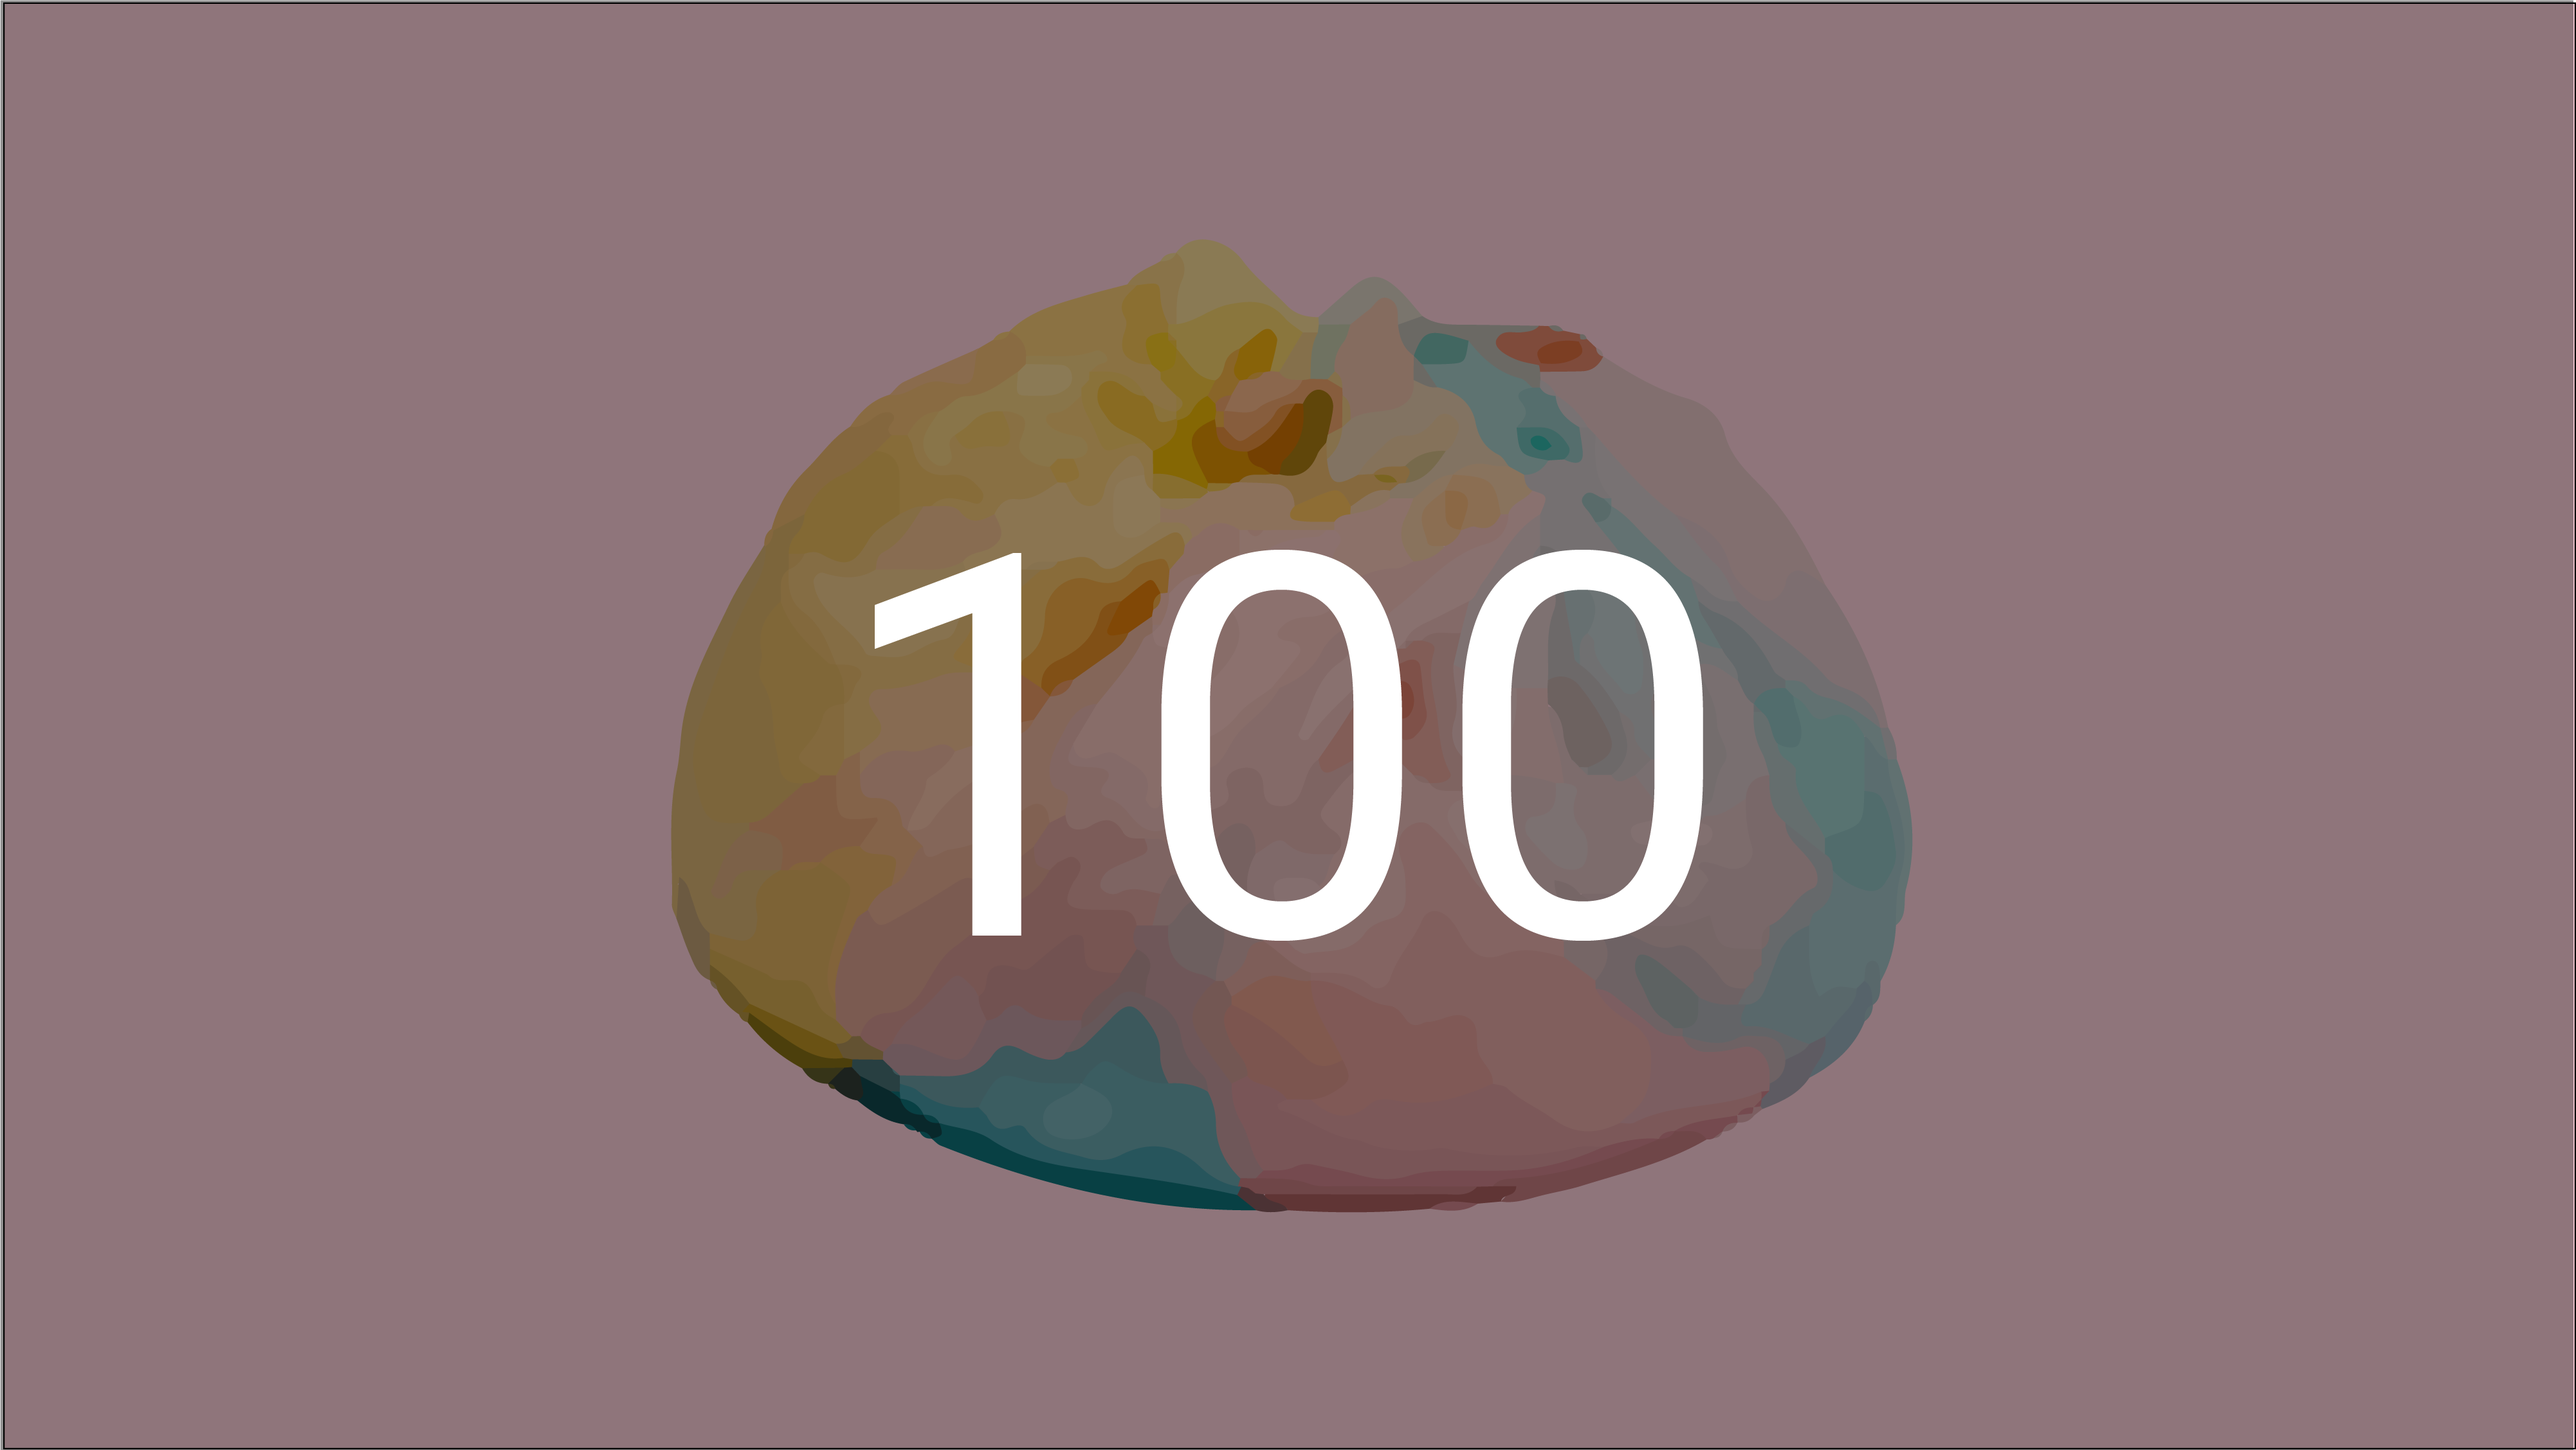
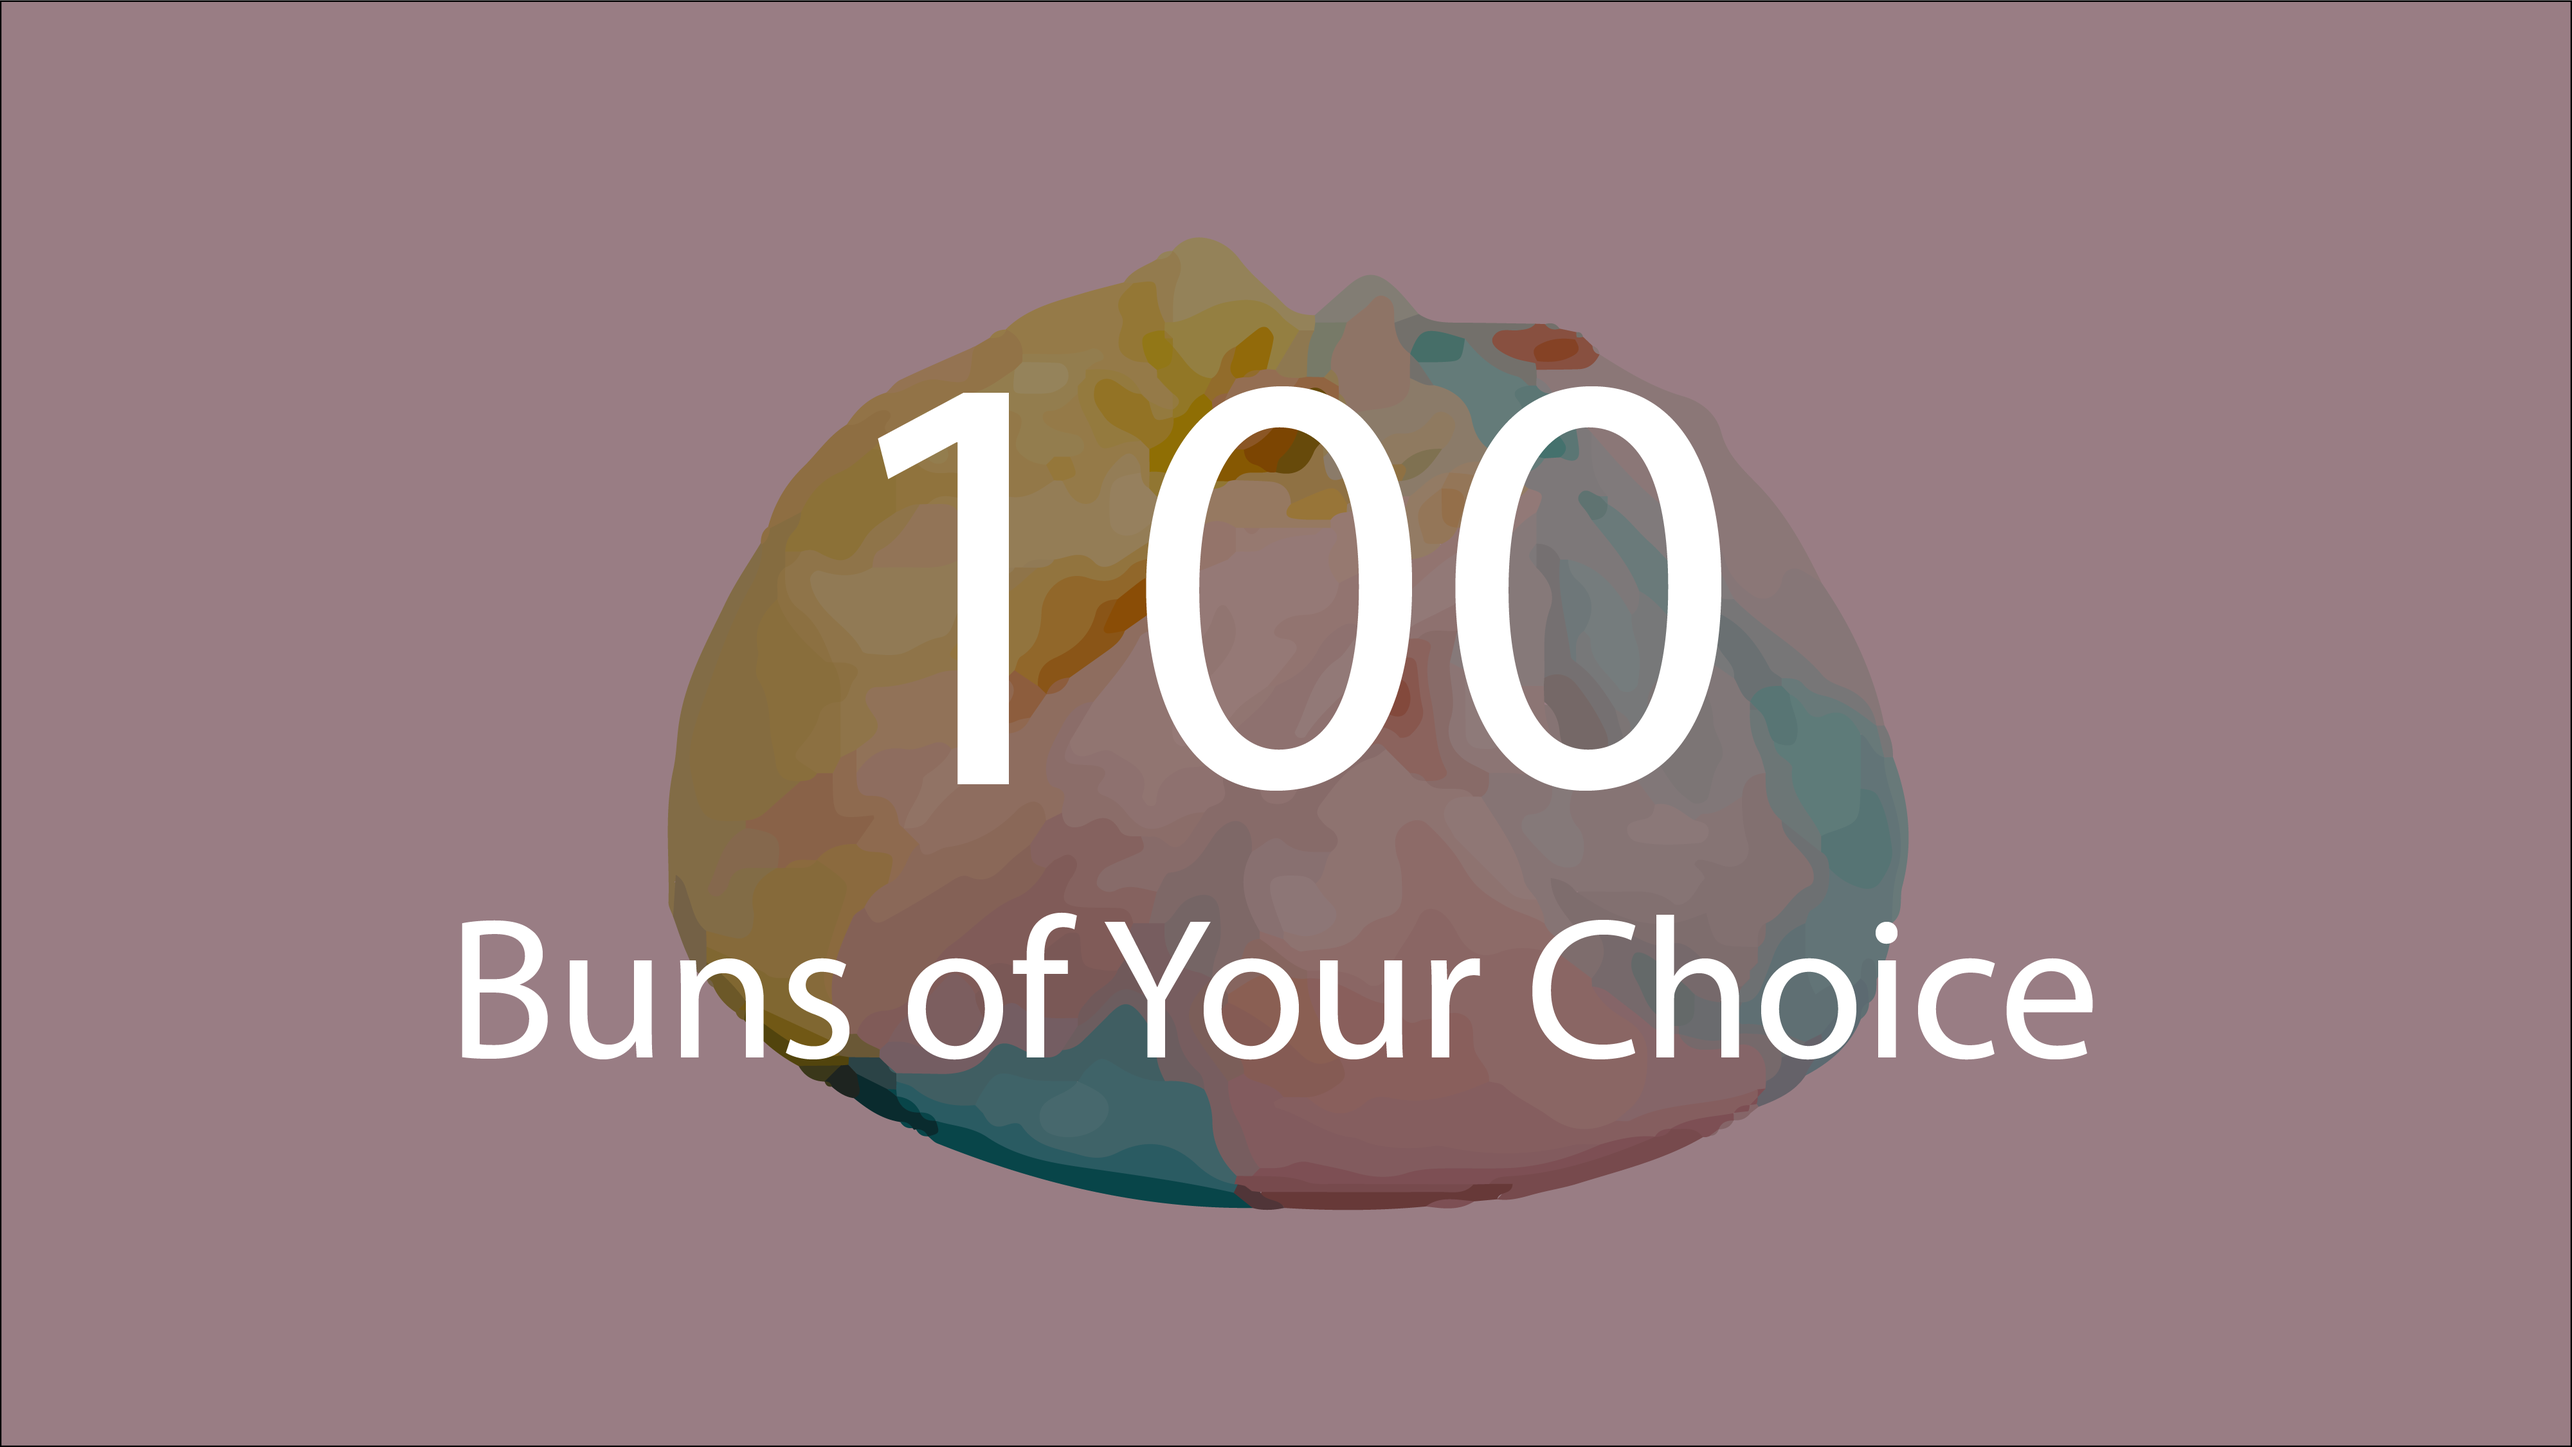
change catering cards

Changed region(s): [[0.1562, 0.2488, 0.8125, 0.7463], [0.0, 0.9951, 1.0, 1.0], [0.0, 0.0, 0.0312, 0.0311]]

diff --git a/index.html b/index.html
@@ -97,11 +97,11 @@
                     </div>
                 </div>
             </div>
-            <div class="container">
+            <div class="container text-center">
                 <div class="row">
-                    <div class="col-lg-12 text-center">
-                        <p> We're a food vendor that enjoys travelling to food events, so we can share our unicorn bun! But, what is the Momma Fung unicorn bun?
-                            A take on dim sum, the unicorn steam bun is a magical, savory bun made to delight your eyes and taste buds. Share the experience with your friends and family by posting pictures of yourself posing with our lovely unicorn bun(s). After that, dig into the bun made from fresh ingredients and with love. In case you were wondering: yes, it taste’s as good as it looks! </p>
+                    <div class="col-lg-12">
+                        <p> We're a <strong>food vendor</strong> that enjoys travelling to food events, so we can share our <strong>unicorn buns</strong>! But, what is the Momma Fung unicorn bun?
+                            A take on dim sum, the unicorn steam bun is a magical, savory bun made to delight your eyes and taste buds. Share the experience with your friends and family by posting pictures of yourself posing with our lovely unicorn bun(s). After that, dig into the bun made from <strong>fresh ingredients</strong> and with love. In case you were wondering: yes, it taste’s as good as it looks! </p>
 
                     </div>
                     <div class="col-lg-12 text-center">
@@ -109,8 +109,11 @@
 
                     </div>
                 </div>
-            </div>
+                <br>
+                <br>
+                <h3 class="section-subheading" id="ingredients">Ingredients: Always fresh chicken, potatoes, and mushrooms</h3>
 
+            </div>
         </section>
         <!-- Upcoming Events and Locations w/Card Maps -->
         <hr width="50%">

diff --git a/catering.html b/catering.html
@@ -93,7 +93,7 @@
                                     <img class="card-img-top" src="img/paintbun50.png" alt="Card image cap">
                                     <div class="card-body">
 
-                                        <p class="card-text">Buns of your choice</p>
+                                        <p class="card-text"></p>
                                     </div>
                                 </div>
                             </div>
@@ -103,7 +103,7 @@
                                     <img class="card-img-top" src="img/paintbun75.png" alt="Card image cap">
                                     <div class="card-body">
 
-                                        <p class="card-text">Buns of your choice</p>
+                                        <p class="card-text"></p>
                                     </div>
                                 </div>
                             </div>
@@ -113,7 +113,7 @@
                                     <img class="card-img-top" src="img/paintbun100.png" alt="Card image cap">
                                     <div class="card-body">
 
-                                        <p class="card-text">Buns of your choice</p>
+                                        <p class="card-text"></p>
                                     </div>
                                 </div>
                             </div>
@@ -123,7 +123,7 @@
                                     <img class="card-img-top" src="img/paintbun100plus.png" alt="Card image cap">
                                     <div class="card-body">
 
-                                        <p class="card-text">Buns of your choice</p>
+                                        <p class="card-text"></p>
                                     </div>
                                 </div>
                             </div>

diff --git a/css/kyle-index-catering.css b/css/kyle-index-catering.css
@@ -10,7 +10,7 @@
 
         a {
             color: #ff0080
-        }
+        }q
 
         a:hover {
             color: #ff0080
@@ -872,7 +872,9 @@
         border-top: solid black;
      }
 
-
+     #ingredients{
+         margin-bottom: -1rem !important;
+     }
 
 /*-----------------------------------------------------------------------*/
 /*-------------------Catering CSS-------------------------------------------*/
